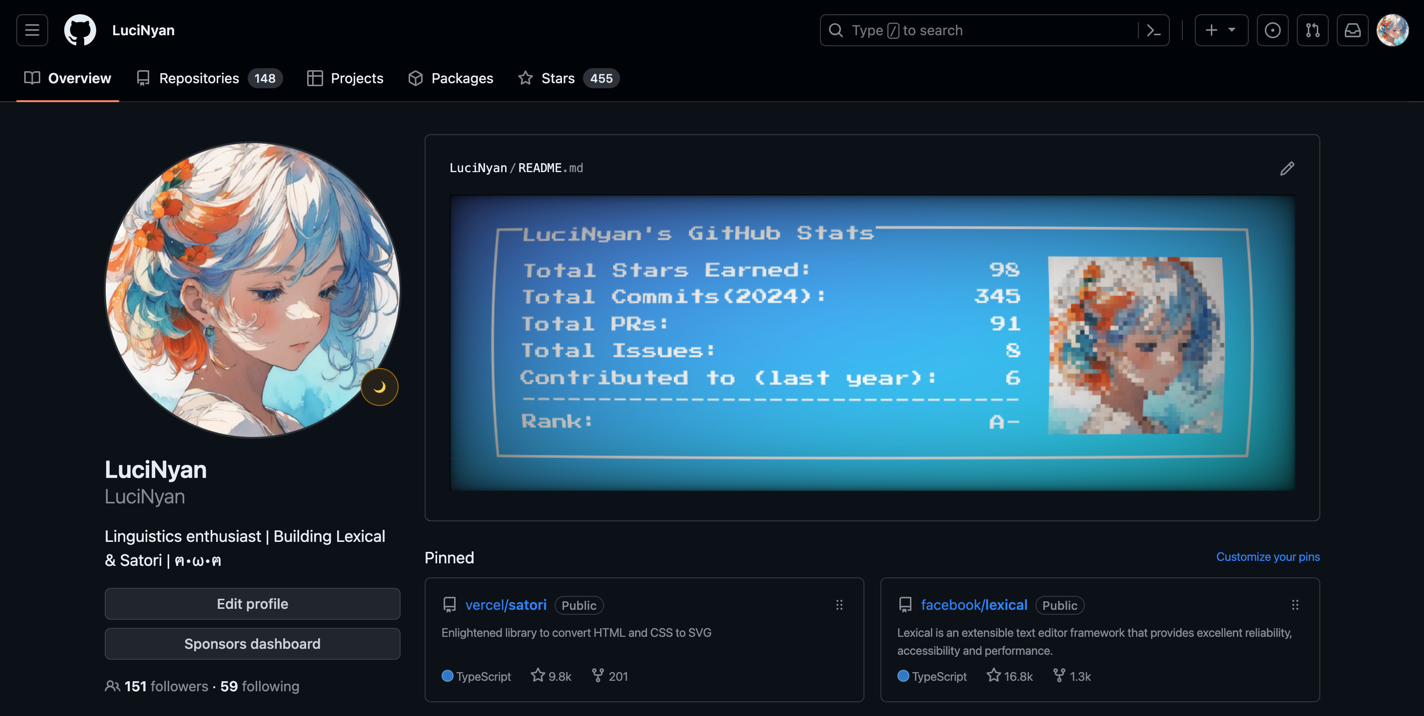
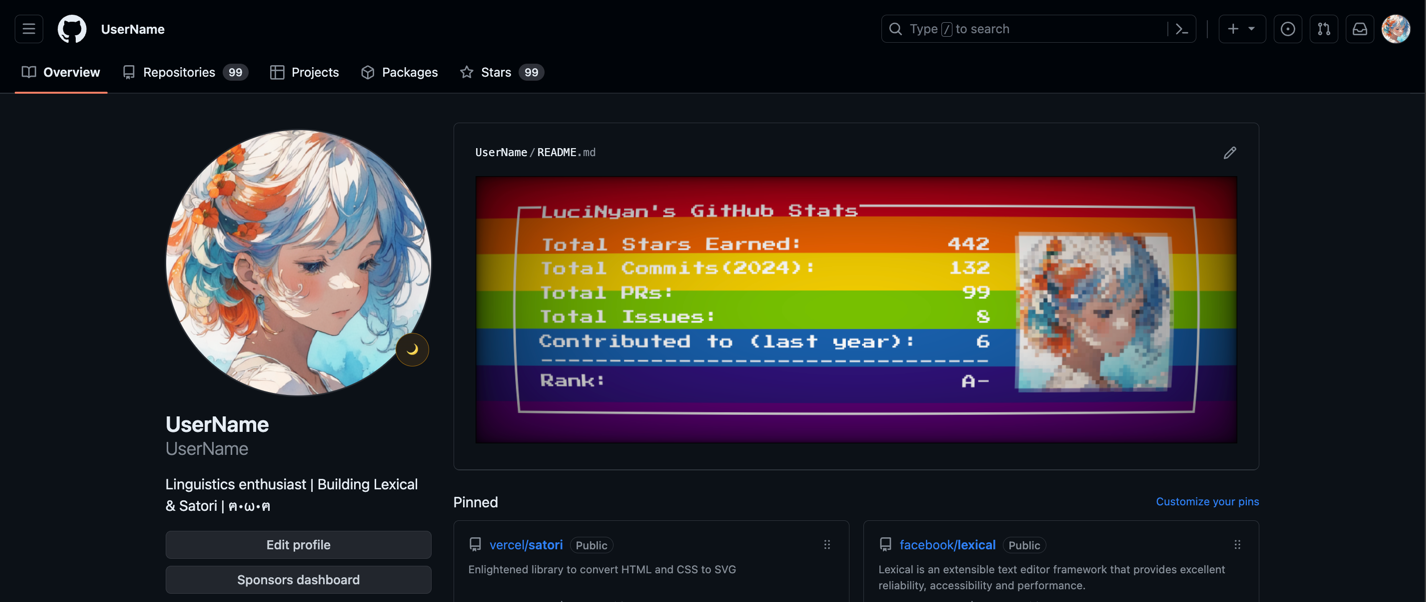
chore: update readme

diff --git a/packages/pixel-profile/test/theme.test.ts b/packages/pixel-profile/test/theme.test.ts
@@ -56,7 +56,7 @@ describe('Theme', () => {
   })
 
   it('Render card with rainbow theme', async () => {
-    const png = await renderStats(stats, { theme: 'rainbow', screenEffect: true })
+    const png = await renderStats(stats, { theme: 'rainbow' })
     expect(png).toMatchImageSnapshot()
   })
 

diff --git a/README.md b/README.md
@@ -20,19 +20,19 @@ https://pixel-profile.vercel.app/api/github-stats?username=<username>
 
 Of course, you can customize the styling to better suit your preferences. For example, here is a stats card designed for GitHub's Dark Theme::
 ```html
-https://pixel-profile.vercel.app/api/github-stats?username=LuciNyan&screen_effect=true&background=linear-gradient(to%20bottom%20right%2C%20%235580eb%2C%20%232aeeff)
+https://pixel-profile.vercel.app/api/github-stats?username=LuciNyan&screen_effect=true&theme=rainbow
 ```
 This is what it looks like in use in a README:
 
 ![Demo 1](.github/img/demo-1.png)
 
-If you want to include a GitHub stats card in your own README and have it display the appropriate card for both light and dark themes on GitHub, you can use the following configuration:
+If you want to include a GitHub stats card in your own README file and have it display the appropriate card for both the light and dark themes on GitHub, you can refer to the following configuration and configure your preferred theme, or fully customize elements like color, background, screen effects, etc:
 
 ```md
 <picture decoding="async" loading="lazy">
-  <source media="(prefers-color-scheme: light)" srcset="https://pixel-profile.vercel.app/api/github-stats?username=LuciNyan&screen_effect=false&background=linear-gradient(to%20bottom%20right%2C%20%2374dcc4%2C%20%234597e9)">
-  <source media="(prefers-color-scheme: dark)" srcset="https://pixel-profile.vercel.app/api/github-stats?username=LuciNyan&screen_effect=true&background=linear-gradient(to%20bottom%20right%2C%20%235580eb%2C%20%232aeeff)">
-  <img alt="github stats" src="https://pixel-profile.vercel.app/api/github-stats?username=LuciNyan&screen_effect=false&background=linear-gradient(to%20bottom%20right%2C%20%2374dcc4%2C%20%234597e9)">
+  <source media="(prefers-color-scheme: light)" srcset="https://pixel-profile.vercel.app/api/github-stats?username=LuciNyan&theme=summer">
+  <source media="(prefers-color-scheme: dark)" srcset="https://pixel-profile.vercel.app/api/github-stats?username=LuciNyan&screen_effect=true&theme=blue_chill">
+  <img alt="github stats" src="https://pixel-profile.vercel.app/api/github-stats?username=LuciNyan&theme=summer">
 </picture>
 ```
 
